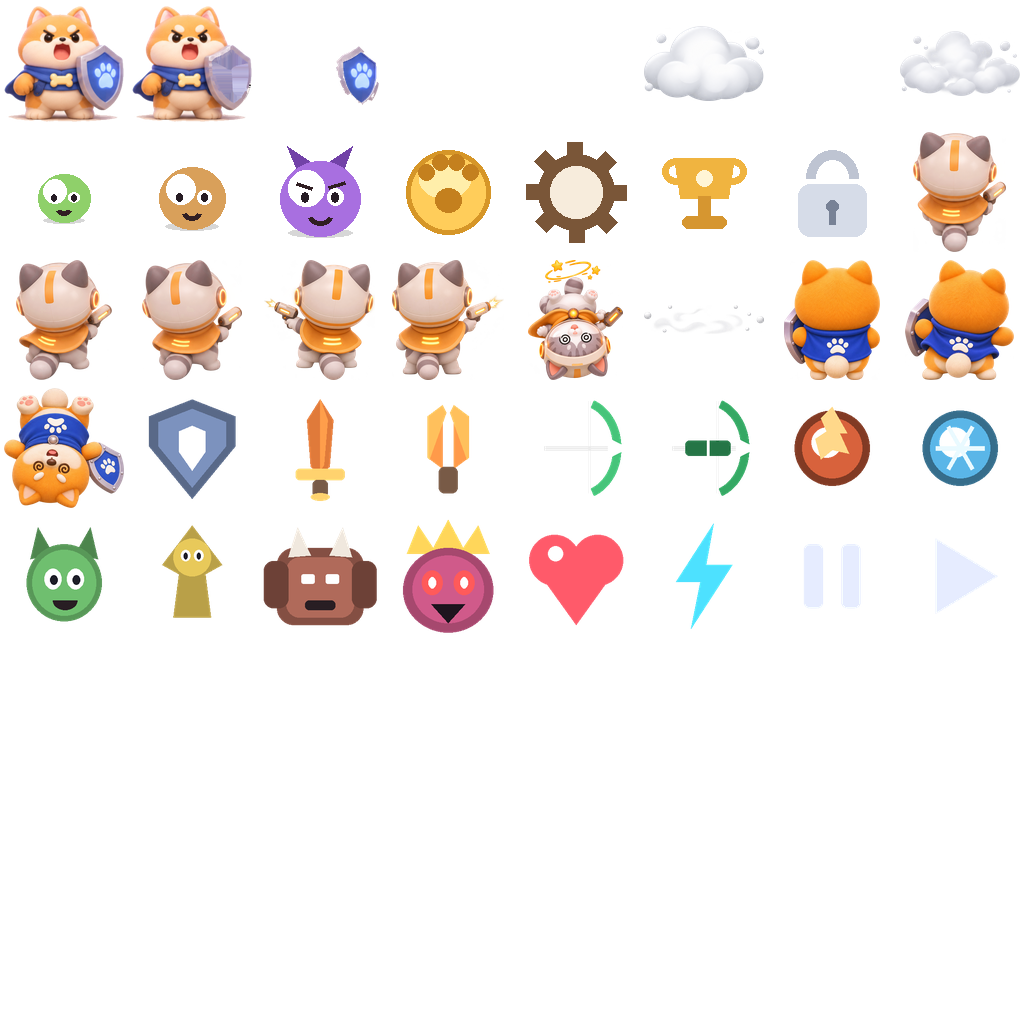
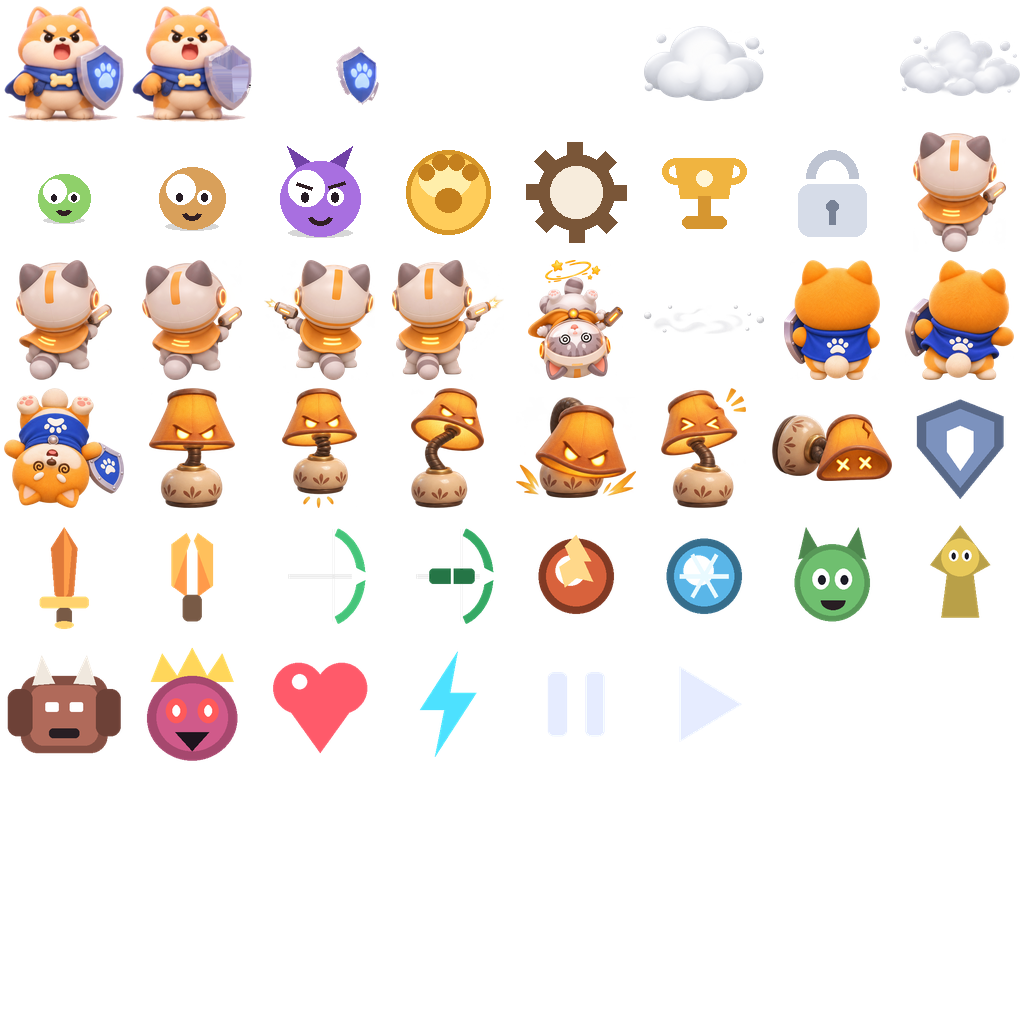
feat: add hopping lamp minion

diff --git a/tower-defense/package/gameplay/anim/defs.js b/tower-defense/package/gameplay/anim/defs.js
@@ -7,6 +7,7 @@
   var A = window.AIGCUtils;
   var archSpec = A.CharacterAnimations.arch;
   var tankSpec = A.CharacterAnimations.tank;
+  var lampSpec = A.CharacterAnimations.lamp;
 
   // 护盾柴犬：战场始终使用背视完整姿势；卡牌仍可复用正面分件图。
   var shiba = {
@@ -105,11 +106,65 @@
   var archerLeft = archerBack('left');
   var archerRight = archerBack('right');
 
+  // 台灯小怪：移动时以跳步向基地推进，攻击由灯罩前撞完成。
+  var lampMinion = {
+    scale: 1.08,
+    parts: [
+      { icon: lampSpec.frames.idle, pivot: [0.50, 0.89] },
+    ],
+    states: {
+      idle: {
+        dur: lampSpec.states.idle.duration, loop: true, ease: 'inOutSine',
+        keys: [
+          { t: 0.00, mods: [{ icon: lampSpec.frames.idle, dy: 0, sy: 1.00 }] },
+          { t: 0.60, mods: [{ icon: lampSpec.frames.idle, dy: -0.8, sy: 1.016, sx: 0.994 }] },
+          { t: lampSpec.states.idle.duration, mods: [{ icon: lampSpec.frames.idle, dy: 0, sy: 1.00 }] },
+        ],
+      },
+      move: {
+        dur: lampSpec.states.move.duration, loop: true, ease: 'outQuad',
+        keys: [
+          { t: 0.00, mods: [{ icon: lampSpec.frames.idle, dy: 0, sy: 1.00 }] },
+          { t: 0.12, mods: [{ icon: lampSpec.frames.hop, dy: -5.2, sy: 0.97, sx: 1.03 }] },
+          { t: 0.30, mods: [{ icon: lampSpec.frames.hop, dy: -2.8, sy: 1.00, sx: 1.00 }] },
+          { t: lampSpec.states.move.duration, mods: [{ icon: lampSpec.frames.idle, dy: 0, sy: 1.00, sx: 1.00 }] },
+        ],
+      },
+      atk: {
+        dur: lampSpec.states.attack.duration, ease: 'inOutSine', hit: lampSpec.states.attack.hit,
+        keys: [
+          { t: 0.00, mods: [{ icon: lampSpec.frames.idle, dy: 0, rot: 0 }] },
+          { t: 0.12, mods: [{ icon: lampSpec.frames.windup, dy: -1.2, rot: -2.5, sx: 0.99 }] },
+          { t: lampSpec.states.attack.hit, mods: [{ icon: lampSpec.frames.impact, dy: 3.1, rot: 1.5, sx: 1.03 }] },
+          { t: 0.31, mods: [{ icon: lampSpec.frames.impact, dy: 1.0, rot: 0.5, sx: 1.01 }] },
+          { t: lampSpec.states.attack.duration, mods: [{ icon: lampSpec.frames.idle, dy: 0, rot: 0, sx: 1 }] },
+        ],
+      },
+      hurt: {
+        dur: lampSpec.states.hurt.duration, ease: 'outQuad',
+        keys: [
+          { t: 0.00, mods: [{ icon: lampSpec.frames.idle, dy: 0, rot: 0 }] },
+          { t: 0.10, mods: [{ icon: lampSpec.frames.hurt, dy: 2.2, rot: -3.0, sx: 1.01 }] },
+          { t: lampSpec.states.hurt.duration, mods: [{ icon: lampSpec.frames.idle, dy: 0, rot: 0, sx: 1 }] },
+        ],
+      },
+      die: {
+        dur: lampSpec.states.die.duration, ease: 'inQuad',
+        keys: [
+          { t: 0.00, mods: [{ icon: lampSpec.frames.idle, alpha: 1, dy: 0 }] },
+          { t: 0.18, mods: [{ icon: lampSpec.frames.defeat, alpha: 1, dy: 3.0 }] },
+          { t: lampSpec.states.die.duration, mods: [{ icon: lampSpec.frames.defeat, alpha: 1, dy: 3.0 }] },
+        ],
+      },
+    },
+  };
+
   // 盾位：柴犬分件动画。config 里的英雄 id 为 'tank'
   A.Rigs = {
     tank: shiba,
     arch: archerRight,
     'arch-left': archerLeft,
     'arch-right': archerRight,
+    small: lampMinion,
   };
 })();

diff --git a/tower-defense/package/gameplay/data/rigs.js b/tower-defense/package/gameplay/data/rigs.js
@@ -1,5 +1,5 @@
 /* 由 tools/gen-shiba-atlas.py 生成，请勿手改 */
 (function () {
   var A = window.AIGCUtils = window.AIGCUtils || {};
-  A.GameAtlas = {"src":"res/Image/game.png","texW":1024,"texH":1024,"cell":128,"pad":4,"icons":{"unit-tank-1":[4,4,120,120],"unit-tank-1-body":[132,4,120,120],"unit-tank-1-shield":[260,4,120,120],"fx-glow":[388,4,120,120],"fx-slash":[516,4,120,120],"fx-smoke":[644,4,120,120],"fx-ring":[772,4,120,120],"fx-smoke-2":[900,4,120,120],"enemy-small":[4,132,120,120],"enemy-normal":[132,132,120,120],"enemy-elite":[260,132,120,120],"ui-coin":[388,132,120,120],"ui-setting":[516,132,120,120],"ui-rank":[644,132,120,120],"ui-lock":[772,132,120,120],"arch-back-idle":[900,132,120,120],"arch-back-aim":[4,260,120,120],"arch-back-recoil":[132,260,120,120],"arch-back-fire-left":[260,260,120,120],"arch-back-fire-right":[388,260,120,120],"arch-back-defeat":[516,260,120,120],"fx-smoke-3":[644,260,120,120],"tank-back-idle":[772,260,120,120],"tank-hurt":[900,260,120,120],"tank-defeat":[4,388,120,120],"unit-tank-2":[132,388,120,120],"unit-war-1":[260,388,120,120],"unit-war-2":[388,388,120,120],"unit-arch-1":[516,388,120,120],"unit-arch-2":[644,388,120,120],"unit-mage-1":[772,388,120,120],"unit-mage-2":[900,388,120,120],"enemy-grunt":[4,516,120,120],"enemy-runner":[132,516,120,120],"enemy-brute":[260,516,120,120],"enemy-boss":[388,516,120,120],"ui-heart":[516,516,120,120],"ui-bolt":[644,516,120,120],"ui-pause":[772,516,120,120],"ui-play":[900,516,120,120]},"anchors":{"unit-tank-1-body":[4.0,6.0],"unit-tank-1-shield":[79.8,46.0]},"cellFull":[120,120]};
+  A.GameAtlas = {"src":"res/Image/game.png","texW":1024,"texH":1024,"cell":128,"pad":4,"icons":{"unit-tank-1":[4,4,120,120],"unit-tank-1-body":[132,4,120,120],"unit-tank-1-shield":[260,4,120,120],"fx-glow":[388,4,120,120],"fx-slash":[516,4,120,120],"fx-smoke":[644,4,120,120],"fx-ring":[772,4,120,120],"fx-smoke-2":[900,4,120,120],"enemy-small":[4,132,120,120],"enemy-normal":[132,132,120,120],"enemy-elite":[260,132,120,120],"ui-coin":[388,132,120,120],"ui-setting":[516,132,120,120],"ui-rank":[644,132,120,120],"ui-lock":[772,132,120,120],"arch-back-idle":[900,132,120,120],"arch-back-aim":[4,260,120,120],"arch-back-recoil":[132,260,120,120],"arch-back-fire-left":[260,260,120,120],"arch-back-fire-right":[388,260,120,120],"arch-back-defeat":[516,260,120,120],"fx-smoke-3":[644,260,120,120],"tank-back-idle":[772,260,120,120],"tank-hurt":[900,260,120,120],"tank-defeat":[4,388,120,120],"lamp-idle":[132,388,120,120],"lamp-hop":[260,388,120,120],"lamp-windup":[388,388,120,120],"lamp-impact":[516,388,120,120],"lamp-hurt":[644,388,120,120],"lamp-defeat":[772,388,120,120],"unit-tank-2":[900,388,120,120],"unit-war-1":[4,516,120,120],"unit-war-2":[132,516,120,120],"unit-arch-1":[260,516,120,120],"unit-arch-2":[388,516,120,120],"unit-mage-1":[516,516,120,120],"unit-mage-2":[644,516,120,120],"enemy-grunt":[772,516,120,120],"enemy-runner":[900,516,120,120],"enemy-brute":[4,644,120,120],"enemy-boss":[132,644,120,120],"ui-heart":[260,644,120,120],"ui-bolt":[388,644,120,120],"ui-pause":[516,644,120,120],"ui-play":[644,644,120,120]},"anchors":{"unit-tank-1-body":[4.0,6.0],"unit-tank-1-shield":[79.8,46.0]},"cellFull":[120,120]};
 })();

diff --git a/tower-defense/package/gameplay/data/character-animations.js b/tower-defense/package/gameplay/data/character-animations.js
@@ -1,5 +1,5 @@
 /* 由 tools/gen-shiba-atlas.py 生成，请勿手改 */
 (function () {
   var A = window.AIGCUtils = window.AIGCUtils || {};
-  A.CharacterAnimations = {"arch":{"frames":{"idle":"arch-back-idle","aim":"arch-back-aim","recoil":"arch-back-recoil","fireLeft":"arch-back-fire-left","fireRight":"arch-back-fire-right","defeat":"arch-back-defeat"},"states":{"idle":{"duration":2.2},"attack":{"duration":0.46,"hit":0.12,"directions":{"left":{"frame":"fireLeft","muzzle":[-15,-10]},"right":{"frame":"fireRight","muzzle":[15,-10]}}},"hurt":{"duration":0.22},"die":{"duration":0.46,"frame":"defeat"}}},"tank":{"frames":{"idle":"tank-back-idle","hurt":"tank-hurt","defeat":"tank-defeat"},"states":{"idle":{"duration":2.4},"hurt":{"duration":0.34,"frame":"hurt"},"die":{"duration":0.46,"frame":"defeat"}}}};
+  A.CharacterAnimations = {"arch":{"frames":{"idle":"arch-back-idle","aim":"arch-back-aim","recoil":"arch-back-recoil","fireLeft":"arch-back-fire-left","fireRight":"arch-back-fire-right","defeat":"arch-back-defeat"},"states":{"idle":{"duration":2.2},"attack":{"duration":0.46,"hit":0.12,"directions":{"left":{"frame":"fireLeft","muzzle":[-15,-10]},"right":{"frame":"fireRight","muzzle":[15,-10]}}},"hurt":{"duration":0.22},"die":{"duration":0.46,"frame":"defeat"}}},"tank":{"frames":{"idle":"tank-back-idle","hurt":"tank-hurt","defeat":"tank-defeat"},"states":{"idle":{"duration":2.4},"hurt":{"duration":0.34,"frame":"hurt"},"die":{"duration":0.46,"frame":"defeat"}}},"lamp":{"frames":{"idle":"lamp-idle","hop":"lamp-hop","windup":"lamp-windup","impact":"lamp-impact","hurt":"lamp-hurt","defeat":"lamp-defeat"},"states":{"idle":{"duration":1.2},"move":{"duration":0.48,"frame":"hop"},"attack":{"duration":0.42,"hit":0.22,"windup":"windup","impact":"impact"},"hurt":{"duration":0.3,"frame":"hurt"},"die":{"duration":0.48,"frame":"defeat"}}}};
 })();

diff --git a/tower-defense/package/gameplay/play/battle.js b/tower-defense/package/gameplay/play/battle.js
@@ -279,6 +279,25 @@
     });
   }
 
+  function enemyImpactEffect(enemy, target) {
+    var color = enemy.def.impactColor || '#ff9a9a';
+    if (enemy.def.attackEffect === 'bump') {
+      S.addEffect({
+        type: 'pop', x: target.x, y: target.y - 2, r: 8,
+        life: 0.14, max: 0.14, color: color,
+      });
+      return;
+    }
+    S.addEffect({
+      type: 'slash', x: enemy.x, y: enemy.y + enemy.def.radius * 0.5,
+      tx: target.x, ty: target.y, life: 0.16, max: 0.16, color: color,
+    });
+    S.addEffect({
+      type: 'glow', x: target.x, y: target.y - 2, r: 7,
+      life: 0.14, max: 0.14, color: color,
+    });
+  }
+
   function projectileOrigin(unit) {
     var rig = activeRig(unit);
     var muzzle = rig && rig.muzzle;
@@ -619,14 +638,7 @@
           }
           if (hitUnit) {
             damageUnit(hitUnit, e.atk);
-            S.addEffect({
-              type: 'slash', x: e.x, y: e.y + e.def.radius * 0.5,
-              tx: hitUnit.x, ty: hitUnit.y, life: 0.16, max: 0.16, color: '#ff9a9a',
-            });
-            S.addEffect({
-              type: 'glow', x: hitUnit.x, y: hitUnit.y - 2, r: 7,
-              life: 0.14, max: 0.14, color: '#ffb0a8',
-            });
+            enemyImpactEffect(e, hitUnit);
             S.hitstop = Math.max(S.hitstop, 0.035);
           }
         }

diff --git a/tower-defense/package/gameplay/config.js b/tower-defense/package/gameplay/config.js
@@ -81,9 +81,10 @@
     // small 血少量多 / normal 标准 / elite 精英 / boss 首领
     ENEMIES: {
       small: {
-        id: 'small', name: '小怪', tier: 'small', icon: 'enemy-small',
+        id: 'small', name: '台灯小怪', tier: 'small', icon: 'enemy-small',
         hp: 70, atk: 8, interval: 0.9, speed: 62,
         radius: 11, color: '#8fd06a', baseDamage: 2, gold: 2,
+        attackEffect: 'bump', impactColor: '#ffd27a',
       },
       normal: {
         id: 'normal', name: '普通怪', tier: 'normal', icon: 'enemy-normal',

diff --git a/tower-defense/tools/gen-shiba-atlas.py b/tower-defense/tools/gen-shiba-atlas.py
@@ -65,6 +65,8 @@ ARCHER_SPEC = load_animation_spec("arch")
 ARCHER_CAT_DIR = os.path.join(SRC_DIR, ARCHER_SPEC["sourceDir"])
 TANK_SPEC = load_animation_spec("tank")
 TANK_DOG_DIR = os.path.join(SRC_DIR, TANK_SPEC["sourceDir"])
+LAMP_SPEC = load_animation_spec("lamp")
+LAMP_DIR = os.path.join(SRC_DIR, LAMP_SPEC["sourceDir"])
 DEFEAT_SMOKE_DIR = os.path.join(SRC_DIR, "effects", "defeat-smoke")
 DEFEAT_SMOKE = [
     os.path.join(DEFEAT_SMOKE_DIR, "vanish-smoke-01.png"),
@@ -220,17 +222,22 @@ def archer_back_defeat():
 
 
 def spec_sheet_frame(spec, source_dir, name):
-    """按规格从横向等分精灵表取帧；角色动作与独立特效共用此规则。"""
+    """按规格从规则网格精灵表取帧；角色动作与独立特效共用此规则。"""
     frame = spec["frames"][name]
     columns = frame.get("columns")
     if not columns:
         raise ValueError("动作规格缺少 sheet columns: " + name)
+    rows = frame.get("rows", 1)
     sheet = Image.open(os.path.join(source_dir, frame["file"])).convert("RGBA")
     width, height = sheet.size
     index = frame["index"]
+    if index < 0 or index >= columns * rows:
+        raise ValueError("动作规格 sheet index 越界: " + name)
     col = index % columns
+    row = index // columns
     x0, x1 = col * width // columns, (col + 1) * width // columns
-    return fit_visible(sheet.crop((x0, 0, x1, height)))
+    y0, y1 = row * height // rows, (row + 1) * height // rows
+    return fit_visible(sheet.crop((x0, y0, x1, y1)))
 
 
 def tank_frame(name):
@@ -239,6 +246,11 @@ def tank_frame(name):
     if "columns" in frame:
         return spec_sheet_frame(TANK_SPEC, TANK_DOG_DIR, name)
     return fit_visible(Image.open(os.path.join(TANK_DOG_DIR, frame["file"])).convert("RGBA"))
+
+
+def lamp_frame(name):
+    """台灯小怪动作表：统一从 3×2 透明精灵表取帧。"""
+    return spec_sheet_frame(LAMP_SPEC, LAMP_DIR, name)
 
 
 def defeat_smoke(index):
@@ -491,6 +503,10 @@ def build():
     cell(TANK_SPEC["frames"]["hurt"]["icon"], tank_frame("hurt"))
     cell(TANK_SPEC["frames"]["defeat"]["icon"], tank_frame("defeat"))
 
+    # 台灯小怪：待机、跳步、灯罩蓄力 / 撞击、受击、侧翻倒地。
+    for frame_name, frame in LAMP_SPEC["frames"].items():
+        cell(frame["icon"], lamp_frame(frame_name))
+
     # 继承旧图标
     legacy_src = os.path.join(SRC_DIR, "sprites-legacy.png")
     legacy_meta = {}
@@ -546,7 +562,7 @@ def write_rigs(atlas_data):
 def write_character_animations():
     """把离线动作规格中运行时需要的字段导出给 Rig 定义。"""
     runtime = {}
-    for spec in (ARCHER_SPEC, TANK_SPEC):
+    for spec in (ARCHER_SPEC, TANK_SPEC, LAMP_SPEC):
         runtime[spec["id"]] = {
             "frames": {name: frame["icon"] for name, frame in spec["frames"].items()},
             "states": spec["states"],

diff --git a/tower-defense/PROJECT.md b/tower-defense/PROJECT.md
@@ -22,7 +22,7 @@
   - 战（冲锋犬）：中血量近战，移动速度 52，会主动出击寻敌
   - 射手（游侠猫）：射程 260，单体高伤，血量最少
   - 法师（魔法猫）：射程 170，群攻半径 70，血量全场最少
-- 敌人四档：小怪（血少、数量多、快）、普通怪、精英怪、首领（范围压血）
+- 敌人四档：台灯小怪（血少、数量多、跳步快攻）、普通怪、精英怪、首领（范围压血）
 - 敌人自上而下三条通道推进；被嘲讽会横向吸附到盾位，无人阻挡时直扑基地
 - 共 10 波；金币：击杀 2/5/16/60，清波 +6；初始席位 4，上限 10
 - 基地血量 100；进入游戏前有独立首页（头像/体力/设置/排行榜/章节卡/开始按钮）
@@ -64,7 +64,7 @@ python3 tools/gen-profile-art.py   # 9 只猫狗头像图集
 **战斗图集（`res/Image/game.png`，1024×1024，当前 40 格）**
 - 单元格 128px，含 4px padding（旋转 + 线性过滤时防渗色），有效区 120px
 - 帧按生成器注册顺序自动排格；运行时代码只通过帧名查询，禁止依赖图集行列位置
-- 当前包含卡牌用柴犬分件、通用特效、战场敌人与 UI 图标、射手猫背面待机 / 瞄准 / 左右开火 / 后坐 / 仰面晕倒帧，以及盾狗背面待机 / 受击 / 仰面晕倒帧；飞行光弹由运行时绘制，不能烘焙进角色帧
+- 当前包含卡牌用柴犬分件、通用特效、战场敌人与 UI 图标、射手猫背面待机 / 瞄准 / 左右开火 / 后坐 / 仰面晕倒帧、盾狗背面待机 / 受击 / 仰面晕倒帧，以及台灯小怪的待机 / 跳步 / 灯罩蓄力与撞击 / 受击 / 侧翻倒地帧；飞行光弹由运行时绘制，不能烘焙进角色帧
 - 分件以**整张正视图为共同参照**落格，不能各自居中，否则拼合错位
 - 柴犬旧正视源图仅供卡牌分件，放 `tools/src/shiba-front.png`；角色参考按角色目录收纳在 `tools/src/characters/角色/<角色名>/`，跨角色风格参考放在 `tools/src/characters/情绪版/`。射手猫动作源位于 `角色/射手猫/`；盾狗战场源位于 `角色/盾狗/`，包含背面待机、背面受击 / 晕倒帧。所有角色共用的死亡烟雾位于 `tools/src/effects/defeat-smoke/vanish-smoke-0*.png`；旧图标源放 `tools/src/sprites-legacy.png`
 - **改分件/特效后必须重新执行 `gen-shiba-atlas.py`**，并检查 `sprites.js` 里旧图标仍完整
@@ -95,6 +95,7 @@ node ../ks-yoola-devkit/scripts/validate-package.mjs --dir .
 - 射手猫背面动作固定为蓄力 0.10 秒、独立开火帧 0.12–0.18 秒、后坐并在 0.46 秒回到待机；目标左右两侧各用一帧，始终由角色右手持枪；光弹从相应 Rig 的 `muzzle` 锚点生成，命中时才造成伤害
 - 射手猫被击败时先向后仰 0.12 秒，切换到用户确认的仰面晕倒帧；姿势保持不透明，在 0.46 秒时生成三帧纯白烟雾并直接移出单位列表。烟雾的扩散由三张素材帧表达，不可再以运行时缩放伪造。死亡持续时间读取 Rig 数据，不能为此单位另写硬编码
 - 盾狗不进入攻击流程；嘲讽仍由战斗逻辑处理，但不播放光盾特效。战场待机与受击均为背视；受击在 0.34 秒内轻微后移、失衡后回正，保持角色体积而不压扁；死亡切换为仰面晕倒（头朝战场南侧），姿势不渐隐，随后复用通用白烟雾退场。
+- 台灯小怪使用 `small` 敌人档（逻辑直径 22）：移动循环为起跳 / 落地，近战攻击在 0.22 秒由灯罩前撞命中；命中使用暖色冲击而非刀光。动作源为 `tools/src/characters/角色/台灯小怪/lamp-minion-actions-v1.png`，3×2 表统一取帧；死亡侧翻姿势保持不透明，随后复用通用白烟雾。
 - `hitstop` 只压缩战斗推进（`battleDt`），特效仍按真实 `dt` 衰减，否则闪点会一起卡住
 - 死亡单位要等 `die` 动画播完（`dieT`）才移出 `S.units`，**名额统计必须跳过 `dead`**，否则尸体卡上限
 - 加法混合通过 `A.Render.setAdditive(true/false)` 切换，进出都会 flush；着色器带 `uAdd`，

diff --git a/STATUS.md b/STATUS.md
@@ -11,7 +11,7 @@
 - 合并前验证（2026-11-03，H5 预览，414×896，DPR 2）：`node tools/layout-check.mjs`、`node tools/assets-check.mjs`、`node tools/sim.mjs --seconds 400`、`node tools/shot.mjs --port 8102 --dpr 2`（12/12）、`validate-package.mjs --dir .` 均通过。预检保留 6 条已知警告（模板修改 2、上传占位 2、首页图目录 2）；浏览器自动播放音频警告及 favicon 404 未阻断交互。
 - 预览服务必须指向本仓库 `tower-defense/package/`；资源404会被门禁阻断，可用 `node tools/assets-check.mjs` 回归。
 - 本次合并检查：`node tower-defense/tools/sim.mjs --seconds 400`、`assets-check.mjs`、`layout-check.mjs`、`menu-interaction-check.mjs`、浏览器个人中心/暂停面板回归和盾狗受击定格帧均通过；包体静态预检无错误、14 条警告（模板文件 4、配置/广告占位 2、资源目录 8）。本次未进行快手真机验证。
-- 当前动画工作区：射手猫背面待机 / 瞄准 / 左右开火 / 后坐 / 仰面晕倒、枪口锚点与单发光弹已接入；左右目标各用一帧，均为右手持枪。晕倒帧保持不透明，落地后播放全角色共用的三帧纯白烟雾并直接移除。角色源素材按 `tools/src/characters/角色/<角色名>/` 收纳，跨角色风格参考放在 `tools/src/characters/情绪版/`，通用特效放在 `tools/src/effects/`。H5 定格截图、资源门禁、400 秒仿真、布局检查、Chrome 回归 12/12 和包体预检通过；未做快手真机验证。原始角色与情绪参考图已迁出 `package/res/`，当前主包目录约 4.7 MiB。
+- 当前动画工作区：射手猫背面待机 / 瞄准 / 左右开火 / 后坐 / 仰面晕倒、盾狗背面待机 / 受击 / 仰面晕倒，以及台灯小怪的跳步、灯罩撞击、受击与侧翻倒地均已接入。角色源素材按 `tools/src/characters/角色/<角色名>/` 收纳，跨角色风格参考放在 `tools/src/characters/情绪版/`，通用特效放在 `tools/src/effects/`。本轮台灯小怪的图集生成、H5 定格截图、资源门禁、400 秒仿真、布局检查和包体预检通过；未做快手真机验证。原始角色与情绪参考图已迁出 `package/res/`，当前主包目录约 4.7 MiB。
 - 已确认后续制作规范：用户提供角色图与特点后，按 `docs/角色行动动画制作规范.md` 自动决定动作样式、图集帧、Rig、命中时刻与验收流程。
 - 已确认角色尺寸规则：英雄按防御、近战、远程递减阶梯设计；怪物按小怪、普通、精英、首领 / 巨型家具怪分档，可比英雄更小或更大。当前 `radius` 仍复用多种职责，尺寸字段拆分与既有角色重标定尚未实施。
 - 已修复规范落地缺口：英雄与敌人共用移动/攻击/死亡状态生命周期和死亡烟雾；动作规格 JSON 驱动图集与 Rig 数据，图集格位自动分配并校验重复与容量。

diff --git a/CHANGELOG.md b/CHANGELOG.md
@@ -1,5 +1,13 @@
 # 版本更新记录
 
+## 台灯小怪动画（2026-11-05，`main`）
+
+- 新增：以 `small` 敌人档接入台灯小怪，逻辑直径保持 22；推进时跳步，近战攻击由灯罩蓄力后前撞完成。
+- 美术：生成并归档 3×2 透明六帧动作表，包含待机、起跳、蓄力、撞击、受击与侧翻倒地；倒地不渐隐，随后播放通用白烟雾。
+- 修订：敌人近战命中特效支持数据驱动；台灯撞击使用暖色冲击，其他敌人继续使用原刀光。
+- 工具：`anim-shot.mjs` 在定格攻击时读取 Rig 的真实 `hit` 时刻；`shot.mjs` 改用暂停面板的重开按钮几何，恢复 12/12 浏览器回归。
+- 验证：图集生成 46 格、资源门禁、400 秒玩法仿真、布局合同、台灯定格帧与包体静态预检通过；快手 iOS / Android 真机未验证。
+
 ## 角色体型阶梯规范（2026-11-05，`main`）
 
 - 决定：防御、近战、远程的逻辑占地和可见主体分别按递减阶梯设计；默认逻辑直径为 34–38、28–32、22–26（414 宽基准）。

diff --git a/DEVLOG.md b/DEVLOG.md
@@ -9,6 +9,17 @@
 
 ---
 
+## v0.6.4 · 2026-11-05 · `main`
+
+**提交**：本次台灯小怪提交 · **作者**：Codex
+
+- 小怪档替换为台灯小怪：动作表包含待机、跳步、灯罩蓄力、灯罩撞击、受击和侧翻倒地；攻击命中时刻为 0.22 秒。
+- 图集生成器支持多行精灵表，`lamp.json` 与运行时 Rig 共用动作时长和帧名；撞击命中特效通过敌人数据选择暖色冲击，未影响其他敌人的刀光。
+- 工具修正：定格截图读取 Rig 的真实攻击命中时刻；浏览器回归改用暂停面板的实际重开按钮几何。
+- 验证：图集 46 格、资源门禁、400 秒仿真、布局合同、台灯动作定格帧、浏览器交互 12/12 和包体预检通过。快手 iOS / Android 真机未验证。
+
+---
+
 ## v0.6.3 · 2026-11-05 · `main`
 
 **提交**：本次规范补充提交 · **作者**：Codex

diff --git a/docs/迁移与协作记录.md b/docs/迁移与协作记录.md
@@ -16,6 +16,12 @@
 
 ## 已确认的表现规则
 
+### 台灯小怪（2026-11-05，已合入 main）
+
+- 来源：本次用户确认的首个家具小怪；状态：已在 `small` 敌人档实现并完成本地回归。
+- 决定：台灯属于小怪尺寸，逻辑直径 22；向基地推进时跳步移动，近战攻击通过灯罩蓄力后向前撞击，不使用挥砍或投射物。
+- 实现：六帧透明动作表放在 `tools/src/characters/角色/台灯小怪/lamp-minion-actions-v1.png`，由 `lamp.json` 驱动图集与 Rig。受击后仰，死亡侧翻并在姿势保持后复用三帧白烟雾；撞击命中使用暖色冲击效果。
+
 ### 角色体型阶梯（2026-11-05，已确认，待工程拆分）
 
 - 来源：本次用户确认的角色尺寸规则；状态：已写入《角色行动动画制作规范》，尚未改动战斗数值。

diff --git a/docs/角色行动动画制作规范.md b/docs/角色行动动画制作规范.md
@@ -159,5 +159,6 @@ node ../ks-yoola-devkit/scripts/validate-package.mjs --dir .
 |---|---|---|
 | 盾狗 | 背面整体姿势 Rig，受击与仰面晕倒 | 不攻击；嘲讽无额外光盾，死亡后复用通用烟雾 |
 | 射手猫 | 整体姿势帧 Rig，左右开火，仰面晕倒 | 正面动作尚未制作 |
+| 台灯小怪 | 整体姿势 Rig，跳步移动、灯罩蓄力 / 前撞、受击、侧翻倒地 | 绑定 `small` 敌人档；小怪体型，撞击命中用暖色冲击而非刀光 |
 | 近战犬、法师猫 | 静态图标回退渲染 | 尚未接入专属 Rig 与动作帧 |
-| 敌人 | 静态图标回退 + 通用死亡计时与烟雾 | 尚未接入专属 Rig、受击与死亡姿势 |
+| 其余敌人 | 静态图标回退 + 通用死亡计时与烟雾 | 普通、精英、首领尚未接入专属 Rig、受击与死亡姿势 |
